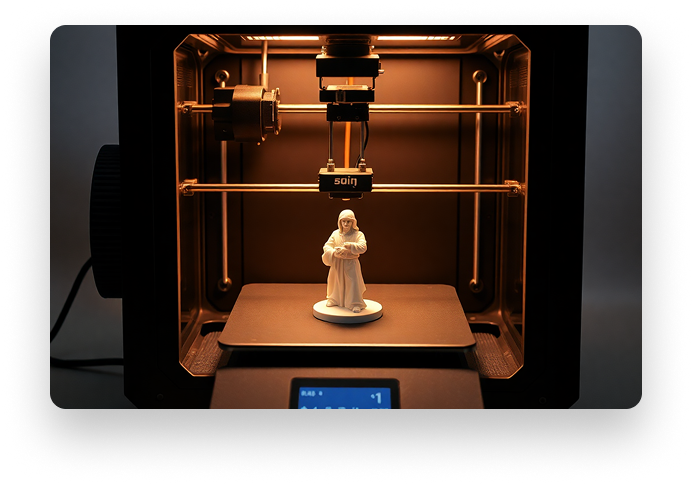
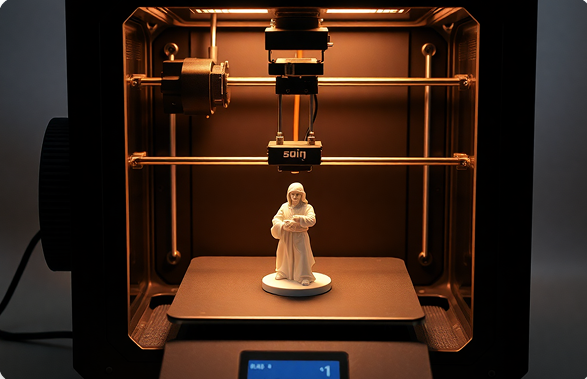
imagen de hero a la derecha que cubra todo el div

diff --git a/index.html b/index.html
@@ -1,21 +1,21 @@
-
-
 <!DOCTYPE html>
 <html lang="es">
+
 <head>
   <meta charset="UTF-8">
   <meta name="viewport" content="width=device-width, initial-scale=1.0">
   <title>Hexalamp3D</title>
-   <link rel="stylesheet" href="estilos.css">
-   <link href="https://fonts.googleapis.com/css2?family=Roboto:wght@400;500;700&display=swap" rel="stylesheet">
+  <link rel="stylesheet" href="estilos.css">
+  <link href="https://fonts.googleapis.com/css2?family=Roboto:wght@400;500;700&display=swap" rel="stylesheet">
 </head>
+
 <body>
   <!-- ====== HEADER / NAV ====== -->
   <header class="header">
     <div class="container">
       <nav class="navbar">
         <a href="#" class="logo">
-              <img src="./assets/Logo9.png" class="nav__logo" alt="Hexalamp3D logo"> Hexalamp3D
+          <img src="./assets/Logo9.png" class="nav__logo" alt="Hexalamp3D logo"> Hexalamp3D
         </a>
         <ul class="nav-links">
           <li><a href="#about">Sobre mí</a></li>
@@ -31,19 +31,19 @@
   <!-- ====== HERO ====== -->
   <section class="hero">
     <div class="container">
-        <div class="izquierda">
-              <h1>Impresión 3D <span class="span-titulo">Creativa </span>y Personalizada</h1>
-              <p>Transformamos tus ideas en realidad con tecnología de impresión 3D de alta precisión. Desde prototipos funcionales hasta piezas decorativas únicas.</p>
-              <div class="btn-hero">
-                <a href="#services" class="btn">  <img src="./assets/svg.png" alt="Contacto" /> Contáctanos</a>
-                <a href="#services" class="btn2"> <img src="./assets/Frame.png" />  Proyectos</a>
-              </div>
-           
+      <div class="izquierda">
+        <h1>Impresión 3D <span class="span-titulo">Creativa </span>y Personalizada</h1>
+        <p>Transformamos tus ideas en realidad con tecnología de impresión 3D de alta precisión. Desde prototipos
+          funcionales hasta piezas decorativas únicas.</p>
+        <div class="btn-hero">
+          <a href="#services" class="btn"> <img src="./assets/svg.png" alt="Contacto" /> Contáctanos</a>
+          <a href="#services" class="btn2"> <img src="./assets/Frame.png" /> Proyectos</a>
         </div>
-        <div class="derecha">
-             <img src="./assets/img.png" class="hero__img" alt="Impresión 3D en proceso"> 
-    
-    </div>
+
+      </div>
+      <div class="derecha">
+        <img src="./assets/img.png" class="hero__img" alt="Impresión 3D en proceso">
+      </div>
   </section>
 
   <!-- ====== ABOUT ====== -->
@@ -100,4 +100,5 @@
 
   <script src="js/script.js"></script>
 </body>
+
 </html>

diff --git a/estilos.css b/estilos.css
@@ -158,7 +158,23 @@ body {
     flex-direction: row; /* lado a lado */
     justify-content: space-between;
     text-align: left;
+    /* background-color: darkgreen; */
   }
+
+  .derecha {
+  width: 100%;
+  height: 100%; /* o dale un alto fijo si quieres */
+
+}
+
+.hero__img{
+
+  padding: 0;
+  margin: 0;
+}
+
+
+
 
   .btn-hero {
     flex-direction: row; /* botones uno al lado del otro */
